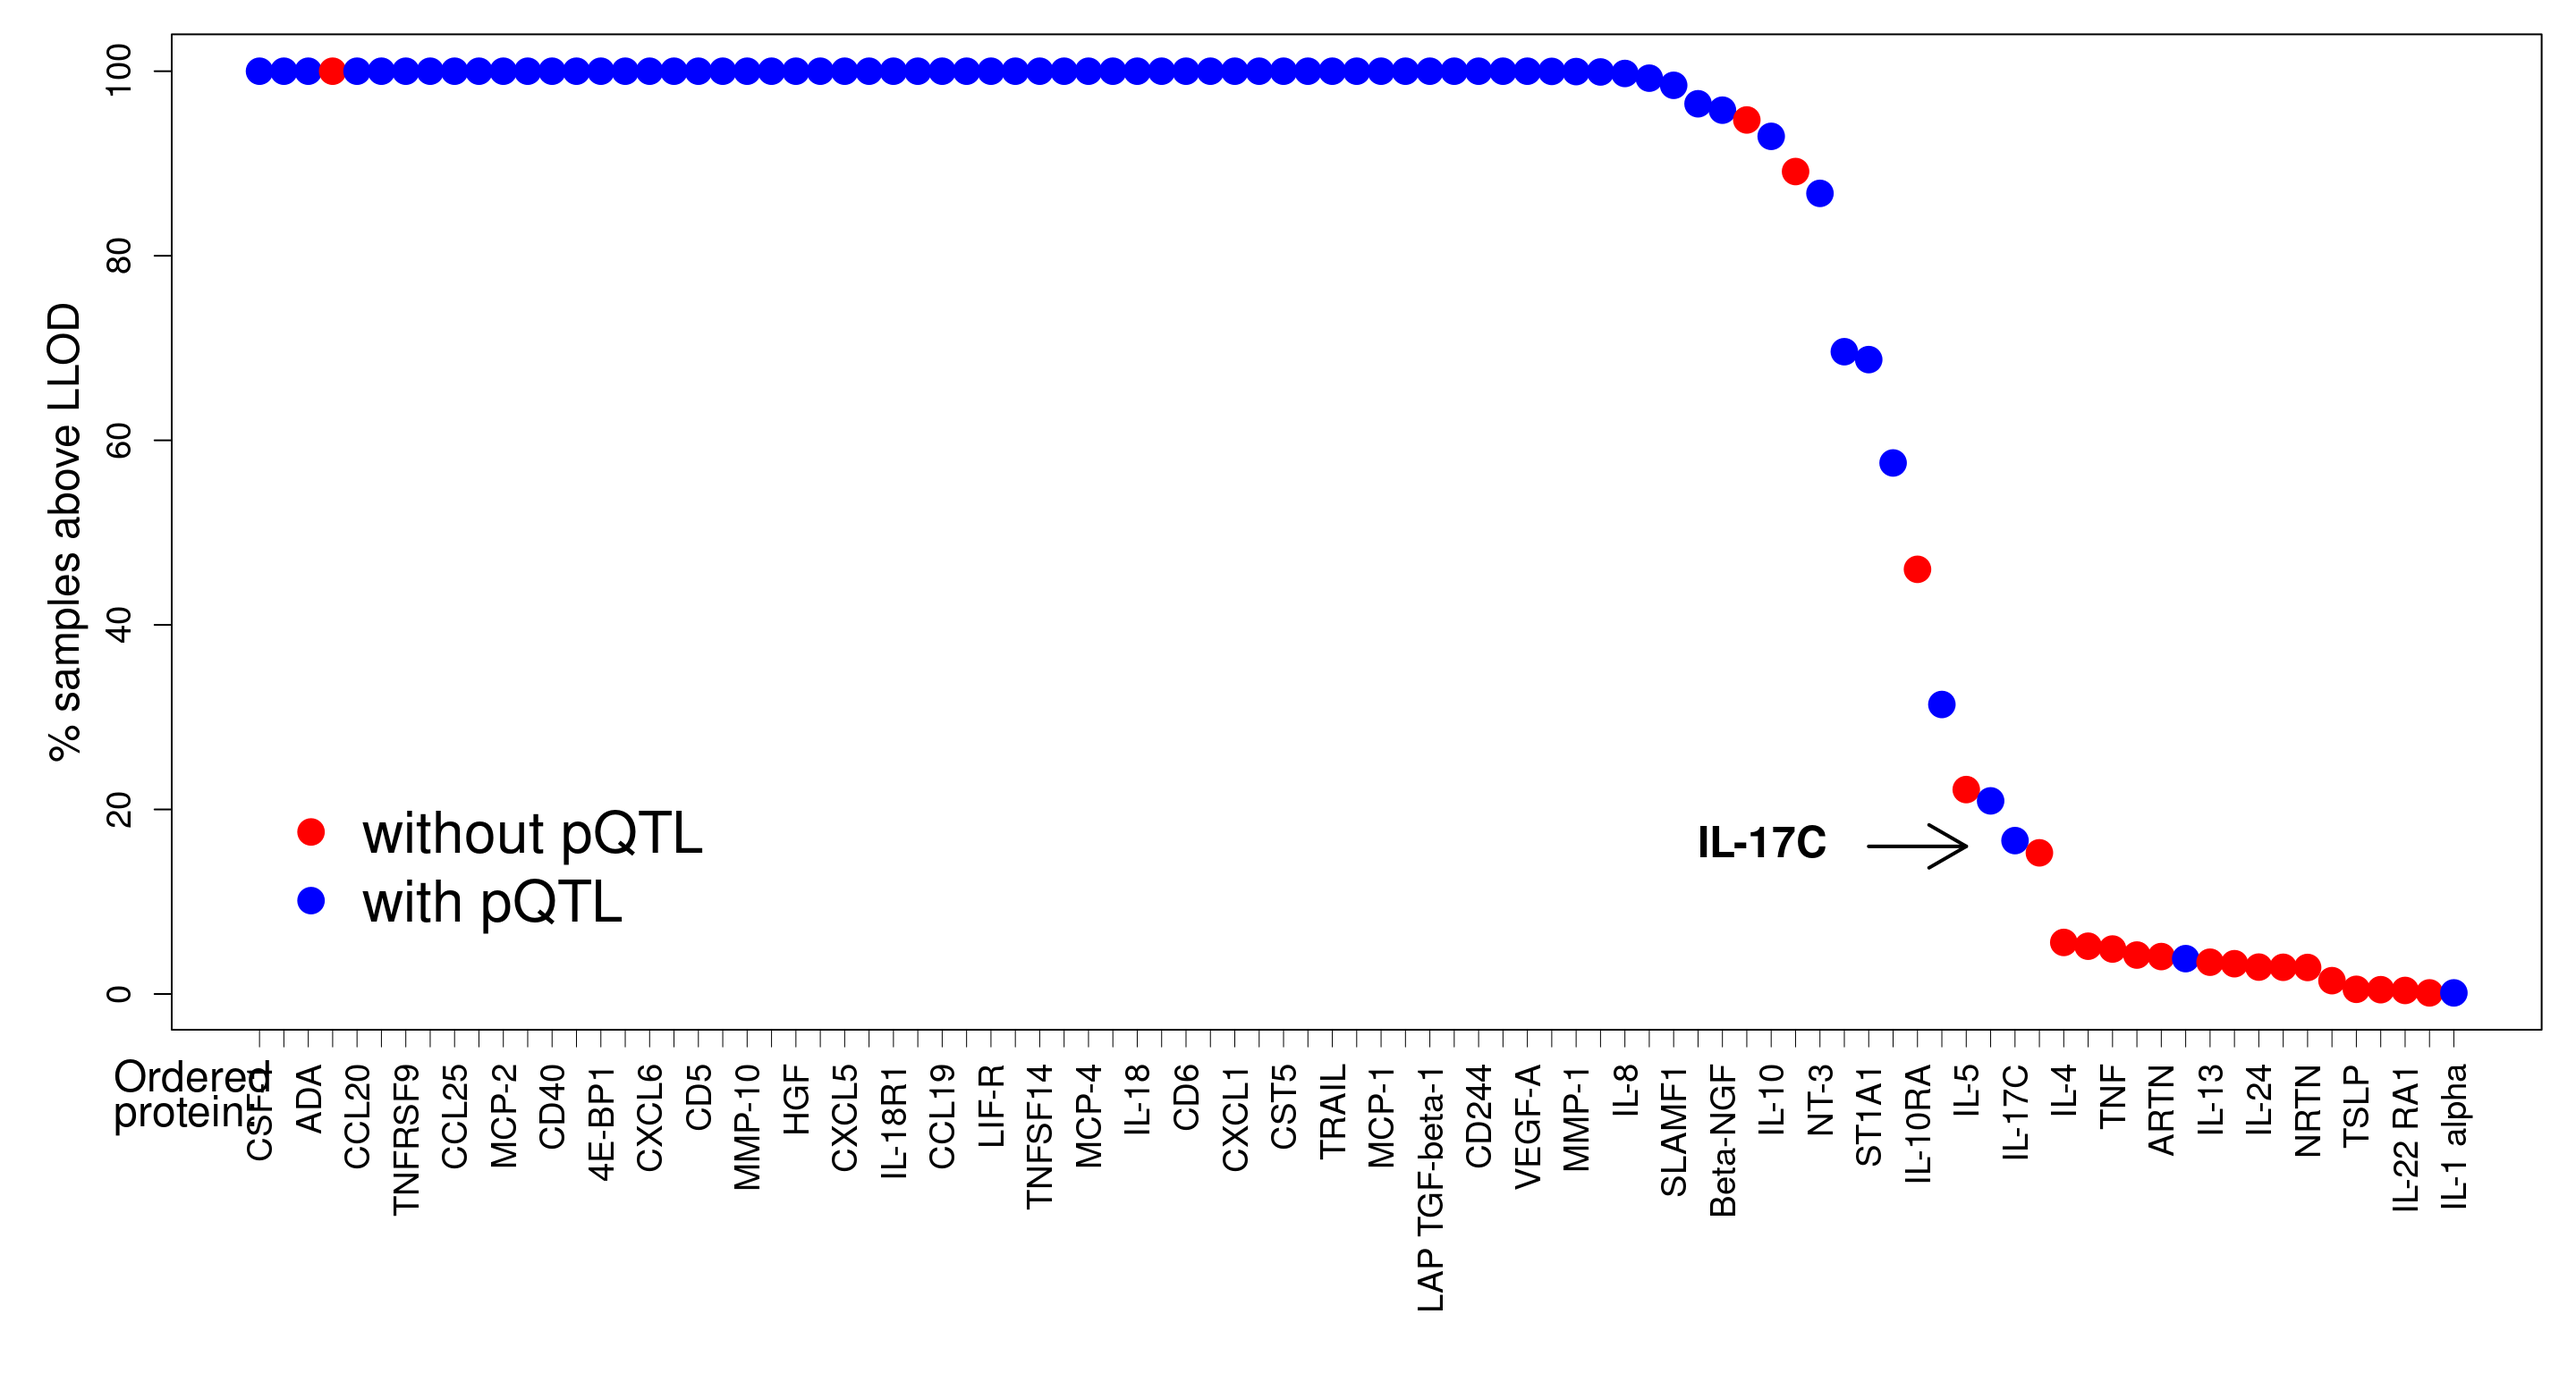
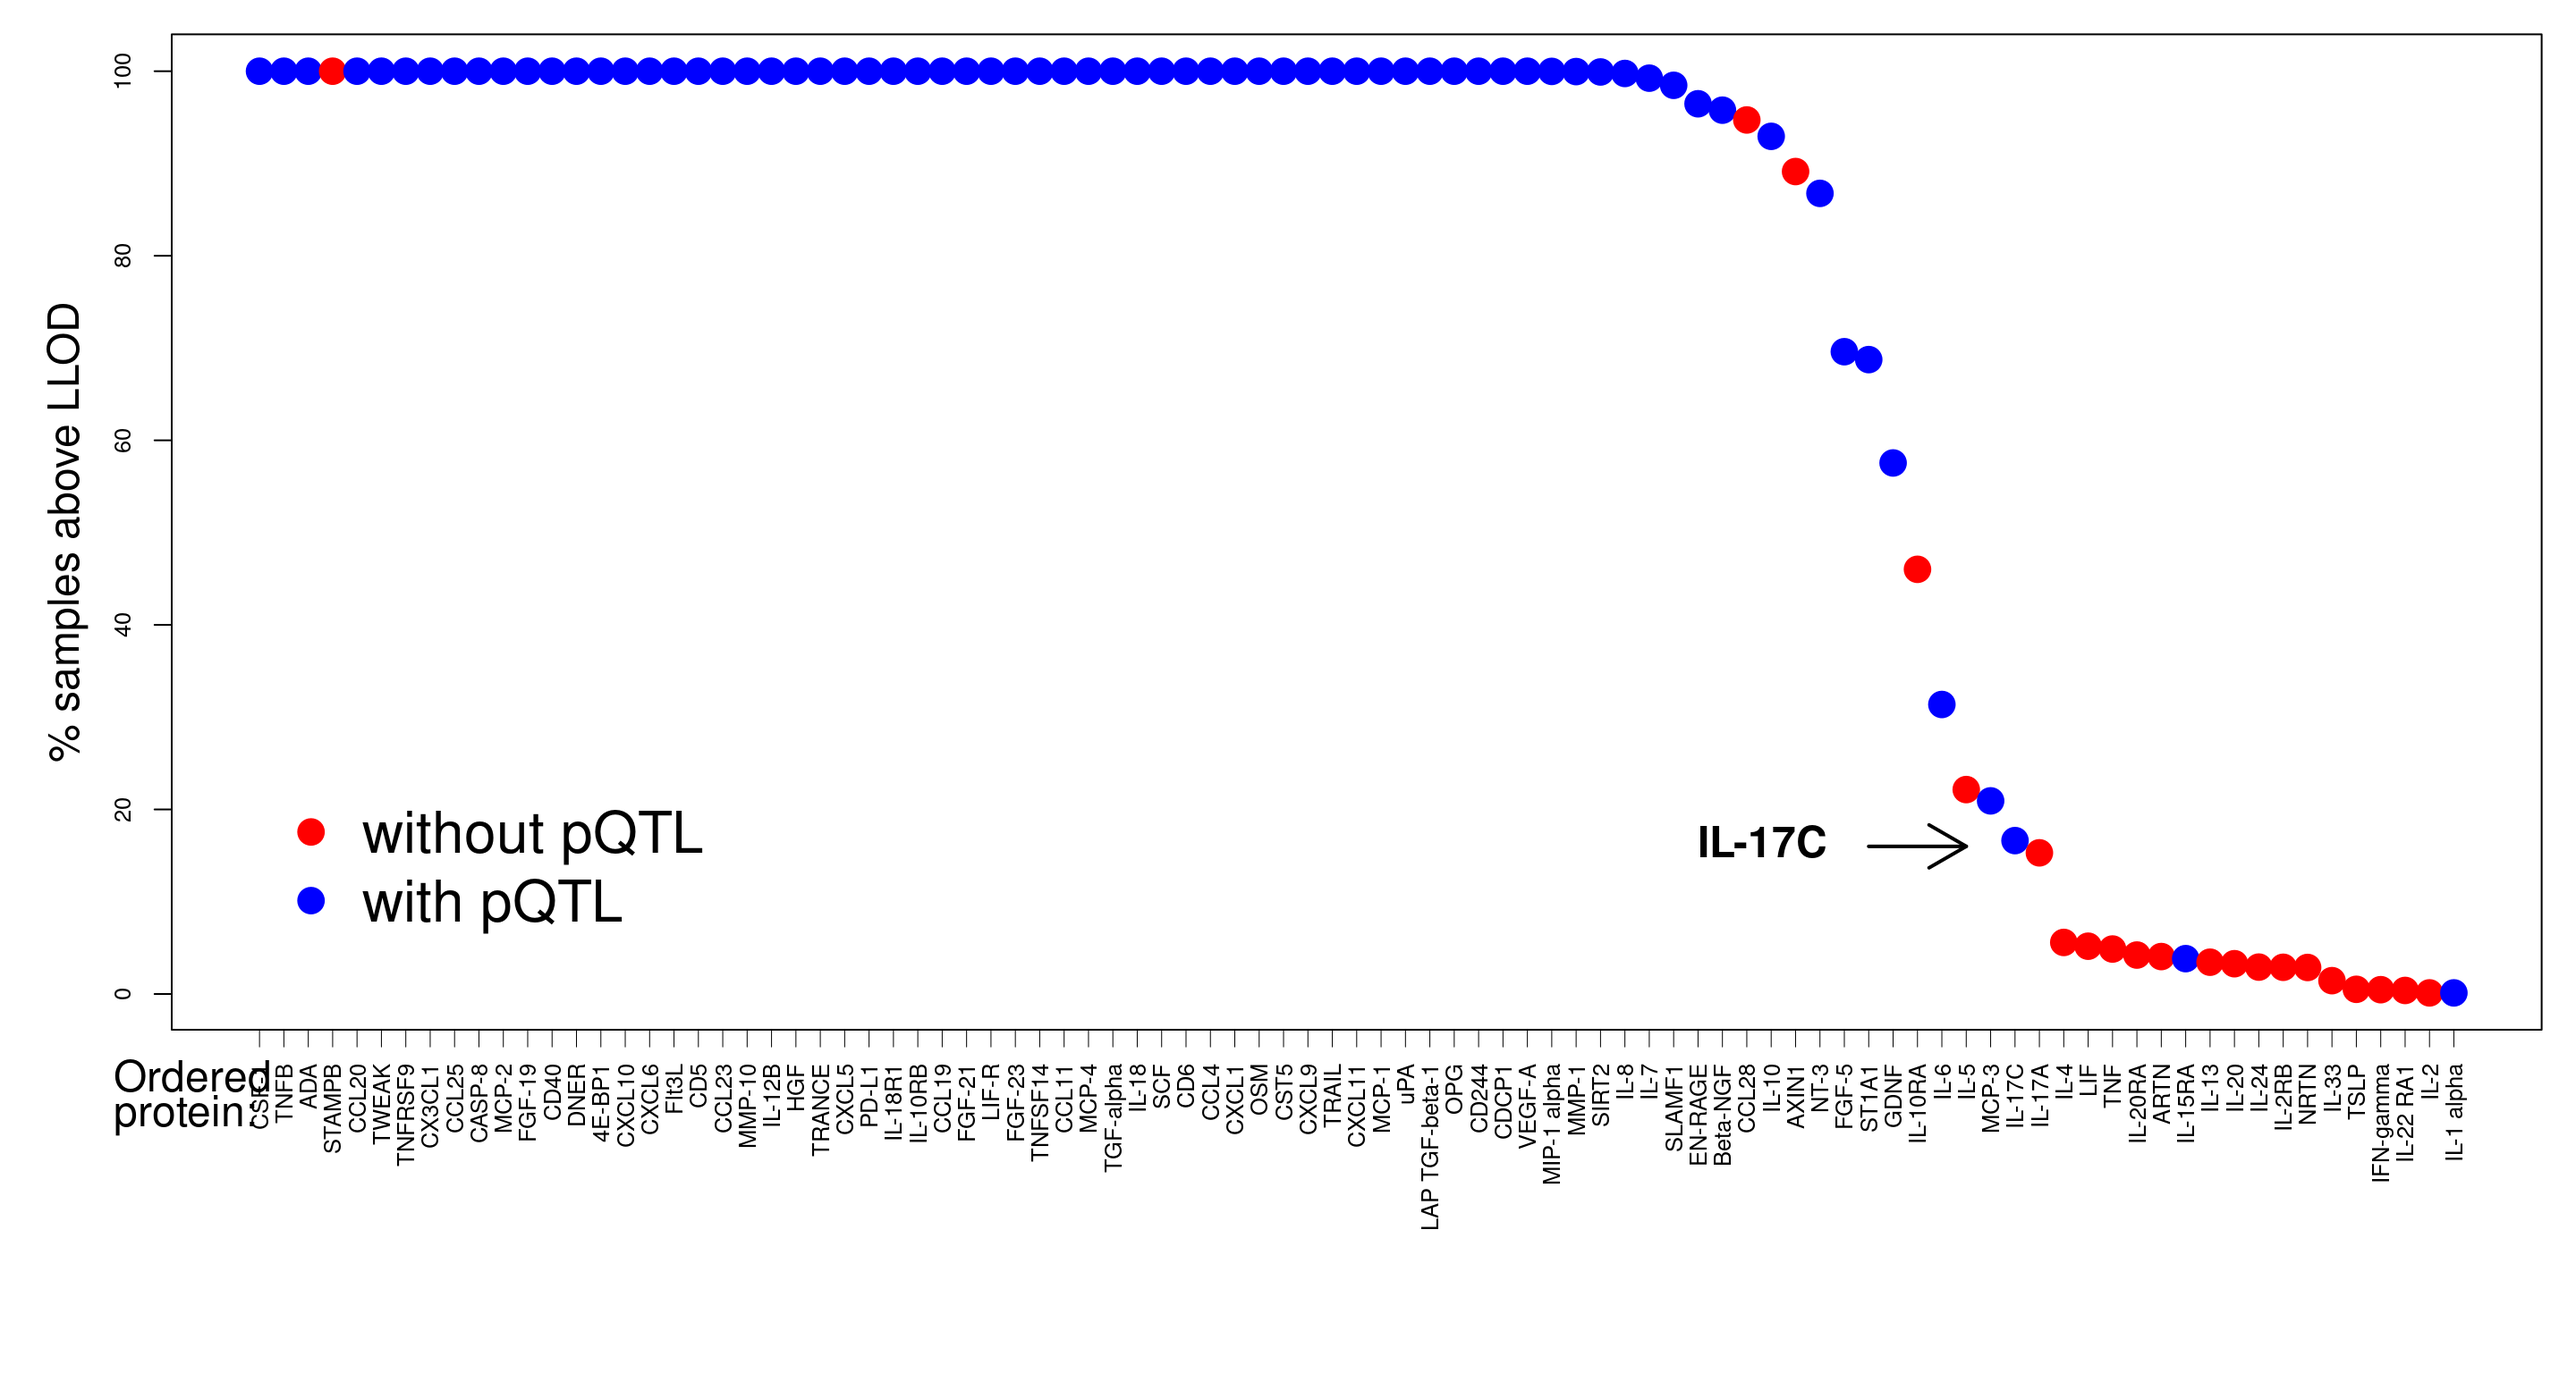
docs

diff --git a/docs/articles/es.html b/docs/articles/es.html
@@ -616,10 +616,10 @@ and therefore pQTL detection as is shown with a real example.</p>
 <span><span class="va">xtick</span> <span class="op">&lt;-</span> <span class="fu"><a href="https://rdrr.io/r/base/seq.html" class="external-link">seq</a></span><span class="op">(</span><span class="fl">1</span>, <span class="fu"><a href="https://rdrr.io/r/base/nrow.html" class="external-link">nrow</a></span><span class="op">(</span><span class="va">annot</span><span class="op">)</span><span class="op">)</span></span>
 <span><span class="kw"><a href="https://rdrr.io/r/base/attach.html" class="external-link">attach</a></span><span class="op">(</span><span class="va">annot</span><span class="op">)</span></span>
 <span><span class="fu"><a href="https://rdrr.io/r/graphics/par.html" class="external-link">par</a></span><span class="op">(</span>mar<span class="op">=</span><span class="fu"><a href="https://rdrr.io/r/base/c.html" class="external-link">c</a></span><span class="op">(</span><span class="fl">10</span>,<span class="fl">5</span>,<span class="fl">1</span>,<span class="fl">1</span><span class="op">)</span><span class="op">)</span></span>
-<span><span class="fu"><a href="https://rdrr.io/r/graphics/plot.default.html" class="external-link">plot</a></span><span class="op">(</span><span class="fl">100</span><span class="op">-</span><span class="va">pc.belowLOD.new</span>,cex<span class="op">=</span><span class="fl">2</span>,pch<span class="op">=</span><span class="fl">19</span>,col<span class="op">=</span><span class="va">pQTL</span>,xaxt<span class="op">=</span><span class="st">"n"</span>,xlab<span class="op">=</span><span class="st">""</span>,ylab<span class="op">=</span><span class="st">""</span>,cex.axis<span class="op">=</span><span class="fl">1.2</span><span class="op">)</span></span>
+<span><span class="fu"><a href="https://rdrr.io/r/graphics/plot.default.html" class="external-link">plot</a></span><span class="op">(</span><span class="fl">100</span><span class="op">-</span><span class="va">pc.belowLOD.new</span>,cex<span class="op">=</span><span class="fl">2</span>,pch<span class="op">=</span><span class="fl">19</span>,col<span class="op">=</span><span class="va">pQTL</span>,xaxt<span class="op">=</span><span class="st">"n"</span>,xlab<span class="op">=</span><span class="st">""</span>,ylab<span class="op">=</span><span class="st">""</span>,cex.axis<span class="op">=</span><span class="fl">0.8</span><span class="op">)</span></span>
 <span><span class="fu">calibrate</span><span class="fu">::</span><span class="fu"><a href="https://rdrr.io/pkg/calibrate/man/textxy.html" class="external-link">textxy</a></span><span class="op">(</span><span class="fl">66</span>,<span class="fl">16</span>,offset<span class="op">=</span><span class="fl">0</span>,pos<span class="op">=</span><span class="fl">2</span>,labs<span class="op">=</span><span class="st">"IL-17C"</span>,cex<span class="op">=</span><span class="fl">1.5</span>,font<span class="op">=</span><span class="fl">2</span>,srt<span class="op">=</span><span class="fl">0</span><span class="op">)</span></span>
 <span><span class="fu"><a href="https://rdrr.io/r/graphics/arrows.html" class="external-link">arrows</a></span><span class="op">(</span><span class="fl">67</span>,<span class="fl">16</span>,<span class="fl">71</span>,<span class="fl">16</span>,lwd<span class="op">=</span><span class="fl">2</span><span class="op">)</span></span>
-<span><span class="fu"><a href="https://rdrr.io/r/graphics/axis.html" class="external-link">axis</a></span><span class="op">(</span><span class="fl">1</span>, at<span class="op">=</span><span class="va">xtick</span>, labels<span class="op">=</span><span class="va">prot</span>, lwd.tick<span class="op">=</span><span class="fl">0.5</span>, lwd<span class="op">=</span><span class="fl">0</span>, las<span class="op">=</span><span class="fl">2</span>, hadj<span class="op">=</span><span class="fl">1</span>, cex.axis<span class="op">=</span><span class="fl">1.2</span><span class="op">)</span></span>
+<span><span class="fu"><a href="https://rdrr.io/r/graphics/axis.html" class="external-link">axis</a></span><span class="op">(</span><span class="fl">1</span>, at<span class="op">=</span><span class="va">xtick</span>, labels<span class="op">=</span><span class="va">prot</span>, lwd.tick<span class="op">=</span><span class="fl">0.5</span>, lwd<span class="op">=</span><span class="fl">0</span>, las<span class="op">=</span><span class="fl">2</span>, hadj<span class="op">=</span><span class="fl">1</span>, cex.axis<span class="op">=</span><span class="fl">0.8</span><span class="op">)</span></span>
 <span><span class="fu"><a href="https://rdrr.io/r/graphics/mtext.html" class="external-link">mtext</a></span><span class="op">(</span><span class="st">"% samples above LLOD"</span>,side<span class="op">=</span><span class="fl">2</span>,line<span class="op">=</span><span class="fl">2.5</span>,cex<span class="op">=</span><span class="fl">1.5</span><span class="op">)</span></span>
 <span><span class="fu"><a href="https://rdrr.io/r/graphics/mtext.html" class="external-link">mtext</a></span><span class="op">(</span><span class="st">"Ordered"</span>,side<span class="op">=</span><span class="fl">1</span>,line<span class="op">=</span><span class="fl">1</span>,cex<span class="op">=</span><span class="fl">1.5</span>,adj<span class="op">=</span><span class="fl">0</span>,font<span class="op">=</span><span class="fl">1</span>,at<span class="op">=</span><span class="op">-</span><span class="fl">5</span><span class="op">)</span></span>
 <span><span class="fu"><a href="https://rdrr.io/r/graphics/mtext.html" class="external-link">mtext</a></span><span class="op">(</span><span class="st">"protein:"</span>,side<span class="op">=</span><span class="fl">1</span>,line<span class="op">=</span><span class="fl">2</span>,cex<span class="op">=</span><span class="fl">1.5</span>,adj<span class="op">=</span><span class="fl">0</span>,font<span class="op">=</span><span class="fl">1</span>,at<span class="op">=</span><span class="op">-</span><span class="fl">5</span><span class="op">)</span></span>
